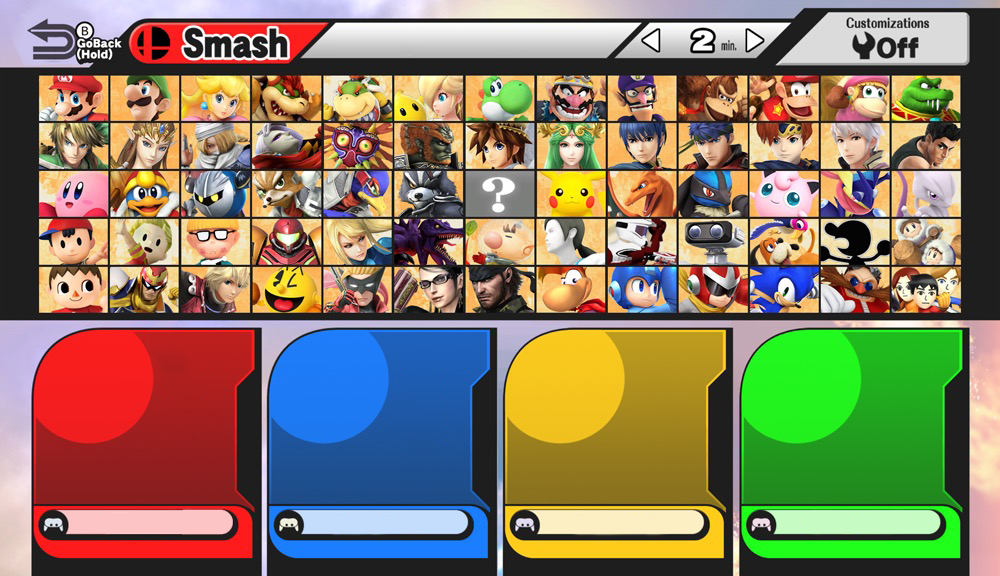
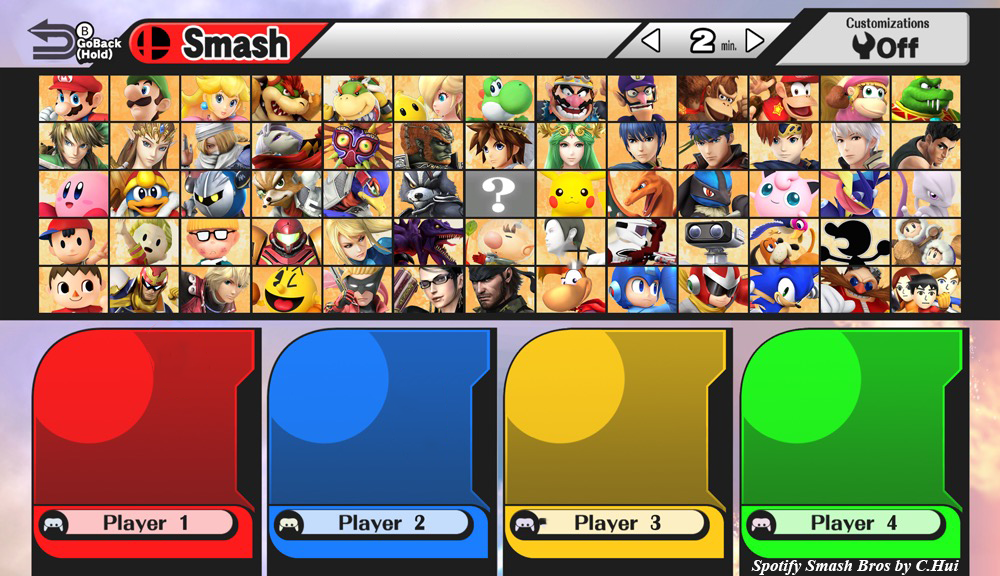
fixed download functionality, updated styling

diff --git a/public/server.js b/public/server.js
@@ -27,14 +27,40 @@
         },
         success: function(response) {
           console.log(response.items);
+          $('.select').hide();
+          $('#ranges').hide();
           $('#screen-container').show();
           $('.thanks').show();
 
+          var data = {
+            artists: response.items,
+            json: true
+          };
+
+          var artist1 = data.artists[0].name;
+          var artist2 = data.artists[1].name;
+          var artist3 = data.artists[2].name;
+          var artist4 = data.artists[3].name;
+
+          var artist1_img = data.artists[0].images[0].url;
+          var artist2_img = data.artists[1].images[0].url;
+          var artist3_img = data.artists[2].images[0].url;
+          var artist4_img = data.artists[3].images[0].url;
+
+          $('.artist-name1').text(artist1);
+          $('.artist1-img').append('<img src="' + artist1_img + '" class="artist-image" crossorigin="anonymous">');
+          $('.artist-name2').text(artist2);
+          $('.artist2-img').append('<img src="' + artist2_img + '" class="artist-image" crossorigin="anonymous">');
+          $('.artist-name3').text(artist3);
+          $('.artist3-img').append('<img src="' + artist3_img + '" class="artist-image" crossorigin="anonymous">');
+          $('.artist-name4').text(artist4);
+          $('.artist4-img').append('<img src="' + artist4_img + '" class="artist-image" crossorigin="anonymous">');
+
           document.getElementById('download').addEventListener('click', function () {
-            var offScreen = document.querySelector('#screen-container');
+            var element = document.querySelector('#screen-container');
 
             window.scrollTo(0, 0);
-            html2canvas(offScreen).then((canvas) => {
+            html2canvas(element, {allowTaint: true, useCORS: true}).then((canvas) => {
               var dataURL = canvas.toDataURL();
               console.log(dataURL);
               var link = document.createElement('a');

diff --git a/public/style.css b/public/style.css
@@ -13,10 +13,10 @@
     font-style: normal;
 }
 
-body {
+/* body {
     background-image: url('/smash_bg.jpg');
     background-size: cover;
-}
+} */
 
 #login, #loggedin {
     display: none;
@@ -44,9 +44,7 @@ body {
     color: white;
     font-size: 22px;
     padding: 20px;
-    border-style: solid;
-    border-color: black;
-    border-width: 2px;
+    border: 2px solid black;
     border-radius: 20px;
     margin-left: 37%;
     vertical-align: middle;
@@ -71,12 +69,11 @@ body {
 
 .container {
     margin-top: 3%;
+    margin-bottom: 3%;
     padding: 5%;
     background-color: whitesmoke;
-    border-style: solid;
-    border-color: whitesmoke;
+    border: solid whitesmoke;
     border-radius: 50px;
-    opacity: 0.98;
 }
 
 #screen-container {
@@ -120,5 +117,67 @@ body {
     top: 7%;
     left: 47%;
     transform: translate(-50%, -50%);
-    font-size: 20px;
+    font-size: 22px;
+}
+
+.artist-name1, .artist-name2, .artist-name3, .artist-name4 {
+    position: absolute;
+    bottom: 12%;
+    left: 4.5%;
+    font-size: 37px;
+    transform: scale(0.95, 1.75);
+    -webkit-text-stroke: 1px black;
+    color: white;
+    text-shadow:
+        2px  2px 0 #000,
+       -1px -1px 0 #000,  
+        1px -1px 0 #000,
+       -1px  1px 0 #000,
+        3px  3px 0 #000;
+    z-index: 1;
+}
+
+.artist-name2 {
+    left: 27.5%;
+}
+
+.artist-name3 {
+    left: 51%;
+}
+
+.artist-name4 {
+    left: 75%;
+}
+
+.artist1-img, .artist2-img, .artist3-img, .artist4-img {
+    position: absolute;
+    bottom: 13%;
+    left: 5.5%;
+    height: 190px;
+    width: 190px;
+}
+
+.artist2-img {
+    left: 29%;
+}
+
+.artist3-img {
+    left: 52.5%;
+}
+
+.artist4-img {
+    left: 76%;
+}
+
+.artist-image {
+    border-radius: 50%;
+    height: 99%;
+    width: 99%;
+}
+
+.watermark {
+    position: absolute;
+    color: white;
+    font-size: 15px;
+
 }

diff --git a/public/index.html b/public/index.html
@@ -49,8 +49,18 @@
 
     <script id="user-profile-template" type="text/x-handlebars-template">
       <div id="screen-container">
-        <img src="smash_roster.png" alt="smash character select roster" style="width: 99%;">
+        <img src="smash_roster.png" alt="smash character select roster" style="width: 100%;">
         <p class="user-name">{{display_name}}'s Mains</p>
+        <p class="artist-name1"></p>
+        <p class="artist-name2"></p>
+        <p class="artist-name3"></p>
+        <p class="artist-name4"></p>
+        <span class="artist1-img"></span>
+        <span class="artist2-img"></span>
+        <span class="artist3-img"></span>
+        <span class="artist4-img"></span>
+        <p class="watermark">Spotify Smash Bros by C.Hui</p>
+        </div>
       </div>
       </div>
     </script>

diff --git a/app.js b/app.js
@@ -9,6 +9,7 @@ var cors = require('cors');
 var querystring = require('querystring');
 var cookieParser = require('cookie-parser');
 var config = require('./config/default.json');
+var html2canvas = require('html2canvas');
 
 var client_id = config.client_id; 
 var client_secret = config.client_secret; 
